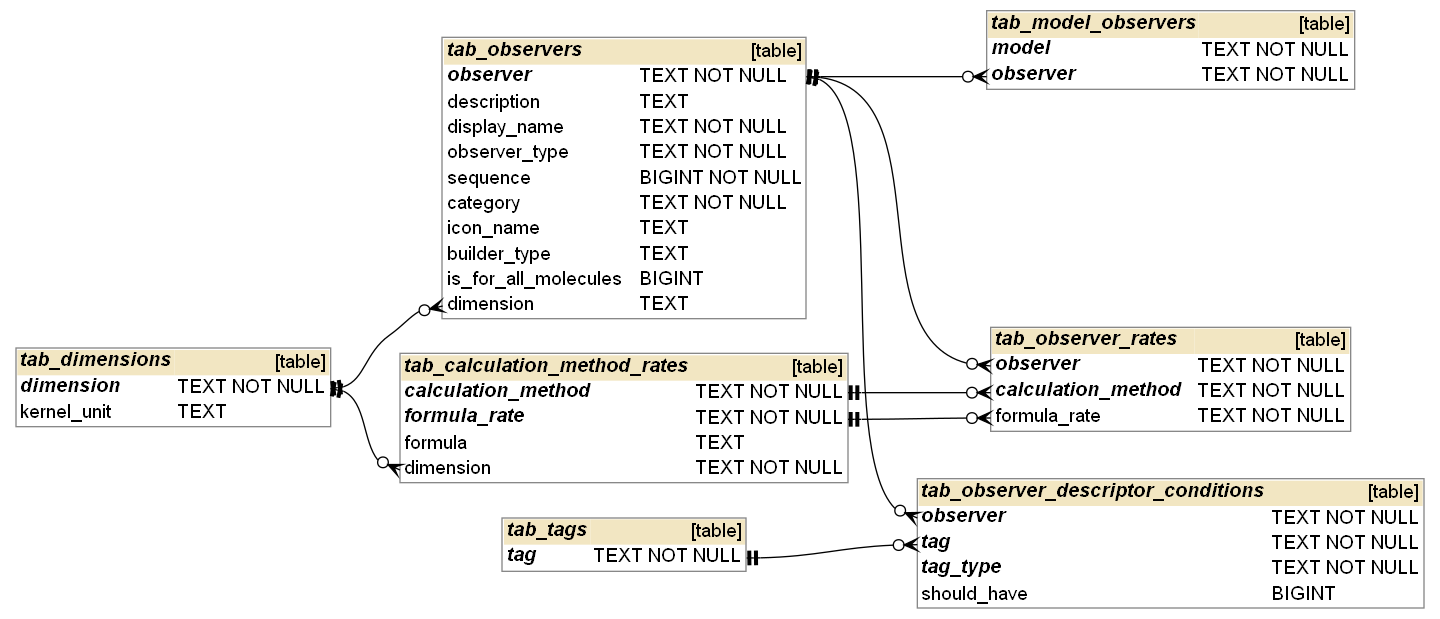
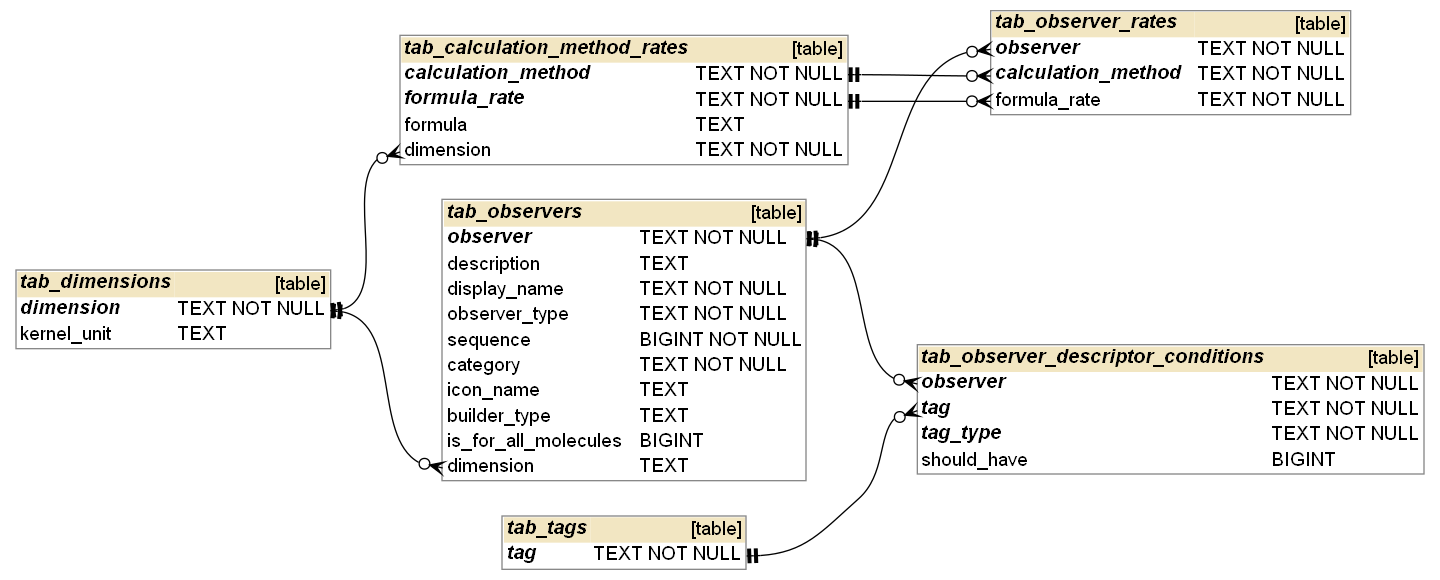
Filled the section "Observers" Filled the section "Entities defined by formulas"

Changed region(s): [[0.0, 0.0, 1.0, 0.9931]]

diff --git a/PKSim-DataBase/DB.md b/PKSim-DataBase/DB.md
@@ -99,7 +99,7 @@ There are some "special" containers defined in *tab_container_names* that are no
   * otherwise: container is NOT added to the model
 * if `usage_in_individual = EXTENDED`
   * container is added to the model in any case
-  * containers of this type usually should not be defined in *tab_population_containers* (TODO https://github.com/Yuri05/DB_Questions/discussions/1)
+  * containers of this type usually should not be defined in *tab_population_containers* (TODO [s. the discussion](https://github.com/Yuri05/DB_Questions/discussions/1))
 
 ## Processes  <a id="section-processes"></a>
 
@@ -245,7 +245,7 @@ There are some "special" containers defined in *tab_container_names* that are no
 **tab_transports** defines which active transports can be created in the model. 
 (TODO better description)
 (TODO rename the table, s. the issue https://github.com/Open-Systems-Pharmacology/PK-Sim/issues/2309)
-(TODO https://github.com/Yuri05/DB_Questions/discussions/5)
+(TODO [s. the discussion](https://github.com/Yuri05/DB_Questions/discussions/5))
 
 **tab_transport_directions** defines all available transport directions
 (TODO rename the table, s. the issue https://github.com/Open-Systems-Pharmacology/PK-Sim/issues/2309)
@@ -267,9 +267,9 @@ See [Localizations, directions, and initial concentrations of transport proteins
 
 **tab_species** defines a species.
 
-* **user_defined** (TODO https://github.com/Yuri05/DB_Questions/discussions/6)
+* **user_defined** (TODO [s. the discussion](https://github.com/Yuri05/DB_Questions/discussions/6))
 
-* **is_human** (TODO https://github.com/Yuri05/DB_Questions/discussions/7)
+* **is_human** (TODO [s. the discussion](https://github.com/Yuri05/DB_Questions/discussions/7))
 
 **tab_populations** defines which populations are available for a given species.
 
@@ -365,6 +365,11 @@ Another (dynamic) way to define parameters is described in the section [Calculat
 * **dimension** must be one of the dimensions defined in the [OSP Dimensions Repository](https://github.com/Open-Systems-Pharmacology/OSPSuite.Dimensions/blob/master/OSPSuite.Dimensions.xml).
 * **default_unit** [OPTIONAL] The default unit to use in the UI (unless the user specifies otherwise). Must be one of the units defined for the parameter dimension in the [OSP Dimensions Repository](https://github.com/Open-Systems-Pharmacology/OSPSuite.Dimensions/blob/master/OSPSuite.Dimensions.xml). If empty: the default unit from the [OSP Dimensions Repository](https://github.com/Open-Systems-Pharmacology/OSPSuite.Dimensions/blob/master/OSPSuite.Dimensions.xml) for the parameter dimension is used.
 
+**tab_dimensions** lists the available dimensions.
+
+* **dimension** must be one of the dimensions defined in the [OSP Dimensions Repository](https://github.com/Open-Systems-Pharmacology/OSPSuite.Dimensions/blob/master/OSPSuite.Dimensions.xml).
+* **kernel_unit** is not used. Is only helpful when creating some database reports etc. Must be identical with the base unit of the corresponding dimension defined in the [OSP Dimensions Repository](https://github.com/Open-Systems-Pharmacology/OSPSuite.Dimensions/blob/master/OSPSuite.Dimensions.xml).
+
 **tab_container_parameters** Specifies a `{Container, Parameter}` combination.
 
 * {**container_id**, **container_type**, **container_name**} specifies the container.
@@ -422,21 +427,35 @@ Another (dynamic) way to define parameters is described in the section [Calculat
 
 The value of a container parameter can be defined in one of three possible ways:
 
-1. By a *formula* specified in **tab_container_parameter_rates** (s. the sections [Formulas (Calculation method - rates)](#section-formulas) and [Calculation methods and parameter value versions](Calculation methods and parameter value versions) for more details).
+1. By a *formula* specified in **tab_container_parameter_rates**.
 
    A formula is neither species nor population dependent.
 
-2. By *constant value* specified in **tab_container_parameter_values** (s. the section [Calculation methods and parameter value versions](Calculation methods and parameter value versions) for more details).
+2. By *constant value* specified in **tab_container_parameter_values**.
 
    A constant value is species dependent but not population dependent.
 
-3. By *age-dependent probability distribution* specified in **tab_container_parameter_curves** (described in detail below).
+3. By *age-dependent probability distribution* specified in **tab_container_parameter_curves**.
 
 It is possible, that for a combination {`container_id, container_type, container_name, parameter_name`} we have *several entries* in different tables (e.g. several formulas or formula and value etc.).
 
 When creating a building block or simulation, some entries are filtered out because the calculation method or parameter value version of the entry does not belong to the species/population/model of the created building block/simulation. 
 
 If we still have more than one entry - the corresponding calculation methods or parameter value versions must be of the **same category** (i.e. they represent possible **alternatives** for the parameter definition). See the sections [Species and Populations](#section-species-and-populations) and [Calculation Methods and Parameter Value Versions](#section-cm-and-pvv) for more details.
+
+**tab_container_parameter_rates** defines a formula for the given parameter in the given container.
+
+* **container_id**, **container_type**, **container_name** defines the container.
+* **parameter_name** defines the parameter in the given container.
+* **calculation_method**, **formula_rate** defines the formula (s. the section [Formulas (Calculation method - rates)](#section-formulas) for more details on formulas).
+
+**tab_container_parameter_values** defines a constant value for the combination {*Container*, *Parameter*, *Species*, *Parameter Value Version*}.
+
+* **container_id**, **container_type**, **container_name** defines the container.
+* **parameter_name** defines the parameter in the given container.
+* **species** defines the species.
+* **parameter_value_version** defines which parameter value version the given value belongs to (s. the section [Calculation methods and parameter value versions](Calculation methods and parameter value versions) for more details).
+* **default_value** parameter value for the combination of the properties above.
 
 **tab_container_parameter_curves** describes age-dependent and/or distributed parameters.
 
@@ -841,11 +860,31 @@ S. the [OSP Documentation on events](https://docs.open-systems-pharmacology.org/
 
 ![](images/overview_observers.png)
 
+**tab_observers** specifies an observer.
+
+* **observer** name of the observer.
+* **observer_type** TODO s. [the discussion](https://github.com/Yuri05/DB_Questions/discussions/9).
+* **category** always set to `"Observer"`. (TODO [s. the discussion](https://github.com/Yuri05/DB_Questions/discussions/10)).
+* **builder_type** "`AMOUNT`" or "`CONTAINER`", which corresponds to "Molecule Observer" and "Container Observer in MoBi" (s. the [OSP Suite documentation](https://docs.open-systems-pharmacology.org/working-with-mobi/mobi-documentation/building-block-concepts#observers) for details).
+* **is_for_all_molecules** (TODO s. [the discussion](https://github.com/Yuri05/DB_Questions/discussions/11))
+* **dimension** dimension of the observer.
+
+**tab_observer_rates** defines the monitor formula of the observer.
+
+**tab_observer_descriptor_conditions** defines criteria for containers where the observer will be created. Single container criteria are combined by "`AND`".
+
+* **observer** name of the observer.
+* **tag** is a tag of a container in which the observer should (or should not) be created.
+* **tag_type** Is always set to "`PARENT`" (TODO [s. the discussion](https://github.com/Yuri05/DB_Questions/discussions/12))
+* **should_have** specifies whether the target container should or should not have the given tag.. 
 
 ## Entities defined by formulas <a id="section-formula-entities"></a>
 
 ![](images/overview_formula_objects.png)
 
+The picture above shows an overview of all quantities which are described by a formula. Most tables are explained in other sections.
+
+**tab_container_rates** is currently not used. This table was introduced to define some conditions which cannot be described by the boundary criteria (min/max) of a quantity. E.g. for the condition "Sum of compartment fractions of an organ = 1".
 
 ## Proteins <a id="section-proteins"></a>
 
